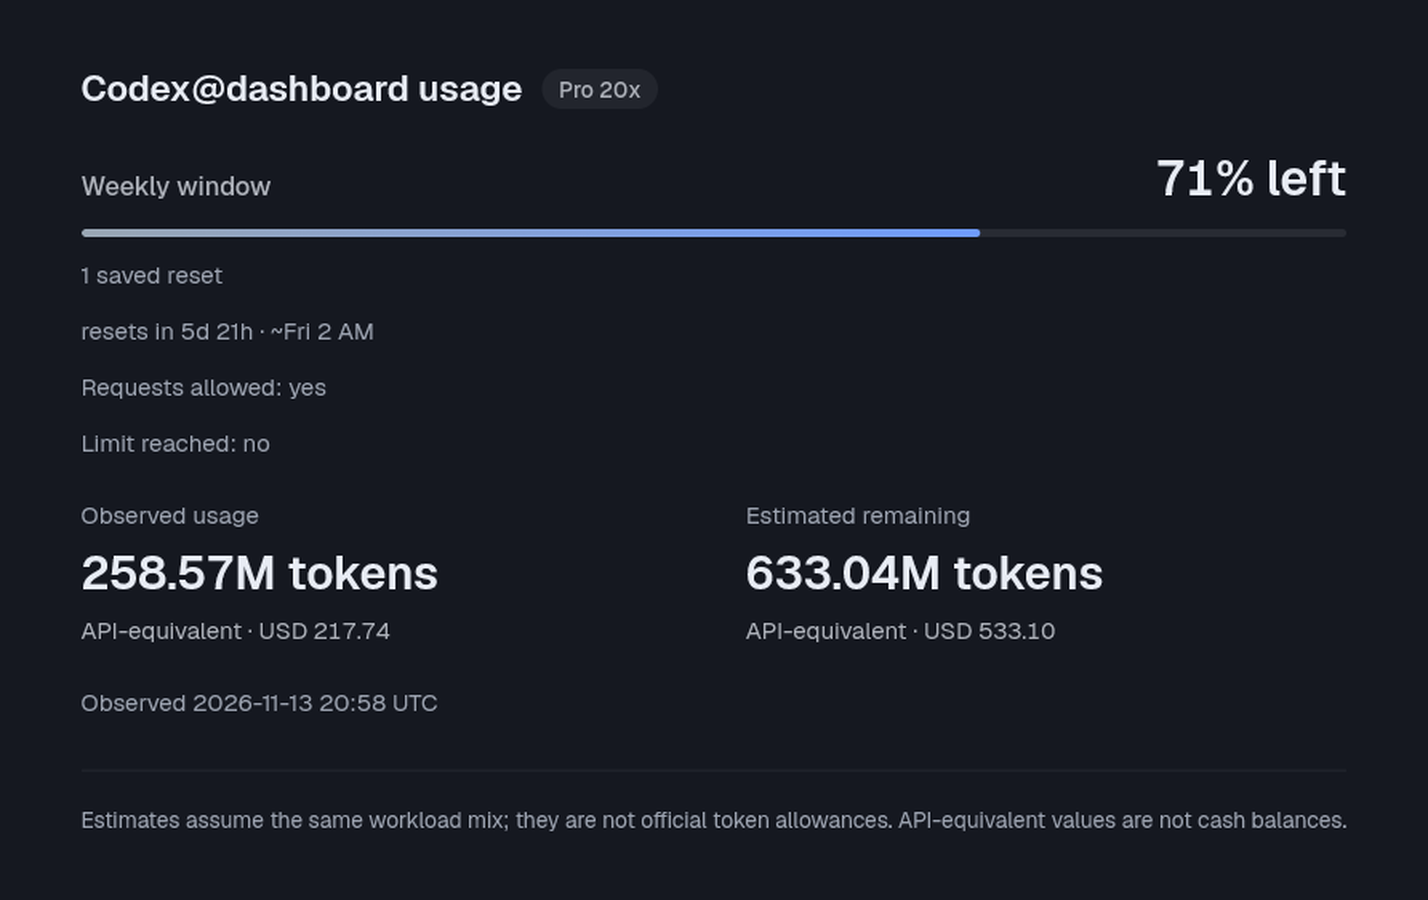
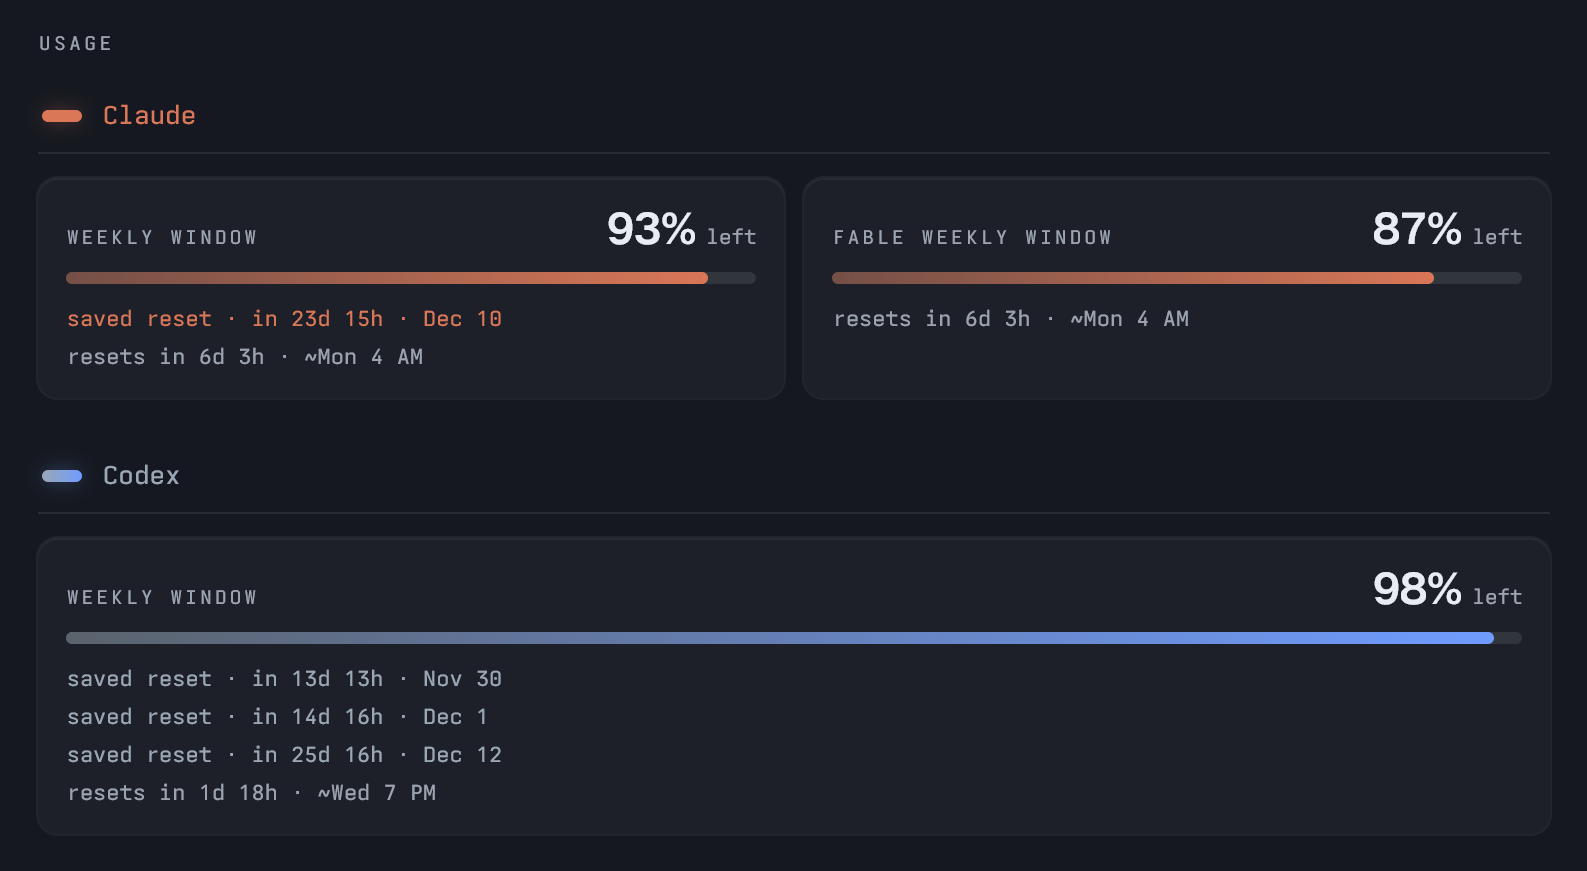
0.7.4: Give the quota details a cleaner, roomier look
The quota details used to squeeze into a narrow column of plain text.
Now they use the width they have and match the settings panel:

- Each provider or account has a heading in its own color, with its
  plan as a chip and the observation time beside it.
- Each window gets its own box, side by side while they fit, with a
  large share, a bar in the line's colors, and its resets beneath.
- A window running low is ringed in orange, or red when nearly empty.
- Observed usage and estimated remaining sit under each window's bar.
- With no quota data, the view says so in a box instead of a bare line.

diff --git a/README.md b/README.md
@@ -282,11 +282,14 @@ token capacity. Plan and observation time remain visible. Normal estimates use n
 and red remain reserved for low quotas, stale observations and errors. Plan ids read as names
 (`pro-20x` shows as `Pro 20x`); a plan the source already capitalizes stays as reported.
 
-Real Keeper quota-cache replay in Tern's Titanium dark theme (a real window, enlarged to 2×):
+The details for omp's own Claude and Codex reports, in Tern's Titanium dark theme: a box per window with its share,
+bar, saved resets and reset time, side by side while they fit. A CPA or Keeper source adds the plan as a chip
+beside the account, its observation time, and **Observed usage** / **Estimated remaining** under each window's
+bar:
 
-<img src="docs/images/card-summary.png" alt="Native Tern quota details: Codex@dashboard usage with a Pro 20x plan badge, a rounded weekly quota bar at 71% left, its saved reset and reset time, observed usage of 258.57M tokens and estimated remaining 633.04M tokens with their API-equivalent values, the observation time and the estimate disclaimer" width="714">
+<img src="docs/images/card-summary.png" alt="Native Tern quota details: a USAGE label, then Claude with its swatch over a hairline and two boxes side by side, Weekly window 93% left with a saved reset in Claude's color and its reset time, and Fable weekly window 87% left; then Codex with one Weekly window box at 98% left, three saved resets and its reset time" width="794">
 
-The same source's hover summary: under the weekly bar, the estimated tokens left (`633.04M`) and their
+A Keeper source's hover summary: under the weekly bar, the estimated tokens left (`633.04M`) and their
 API-equivalent value (`$533.10`), each after its icon, and the plan as a pill on the title row:
 
 <img src="docs/images/hover-summary.png" alt="Quota hover summary over the usage line: Codex@dashboard usage with a gold Pro 20x pill, the weekly window at 71% left, under its bar a tokens icon with 633.04M and a dollar icon with $533.10, then one saved reset, the reset time and a last row naming the details and settings shortcuts" width="348">
